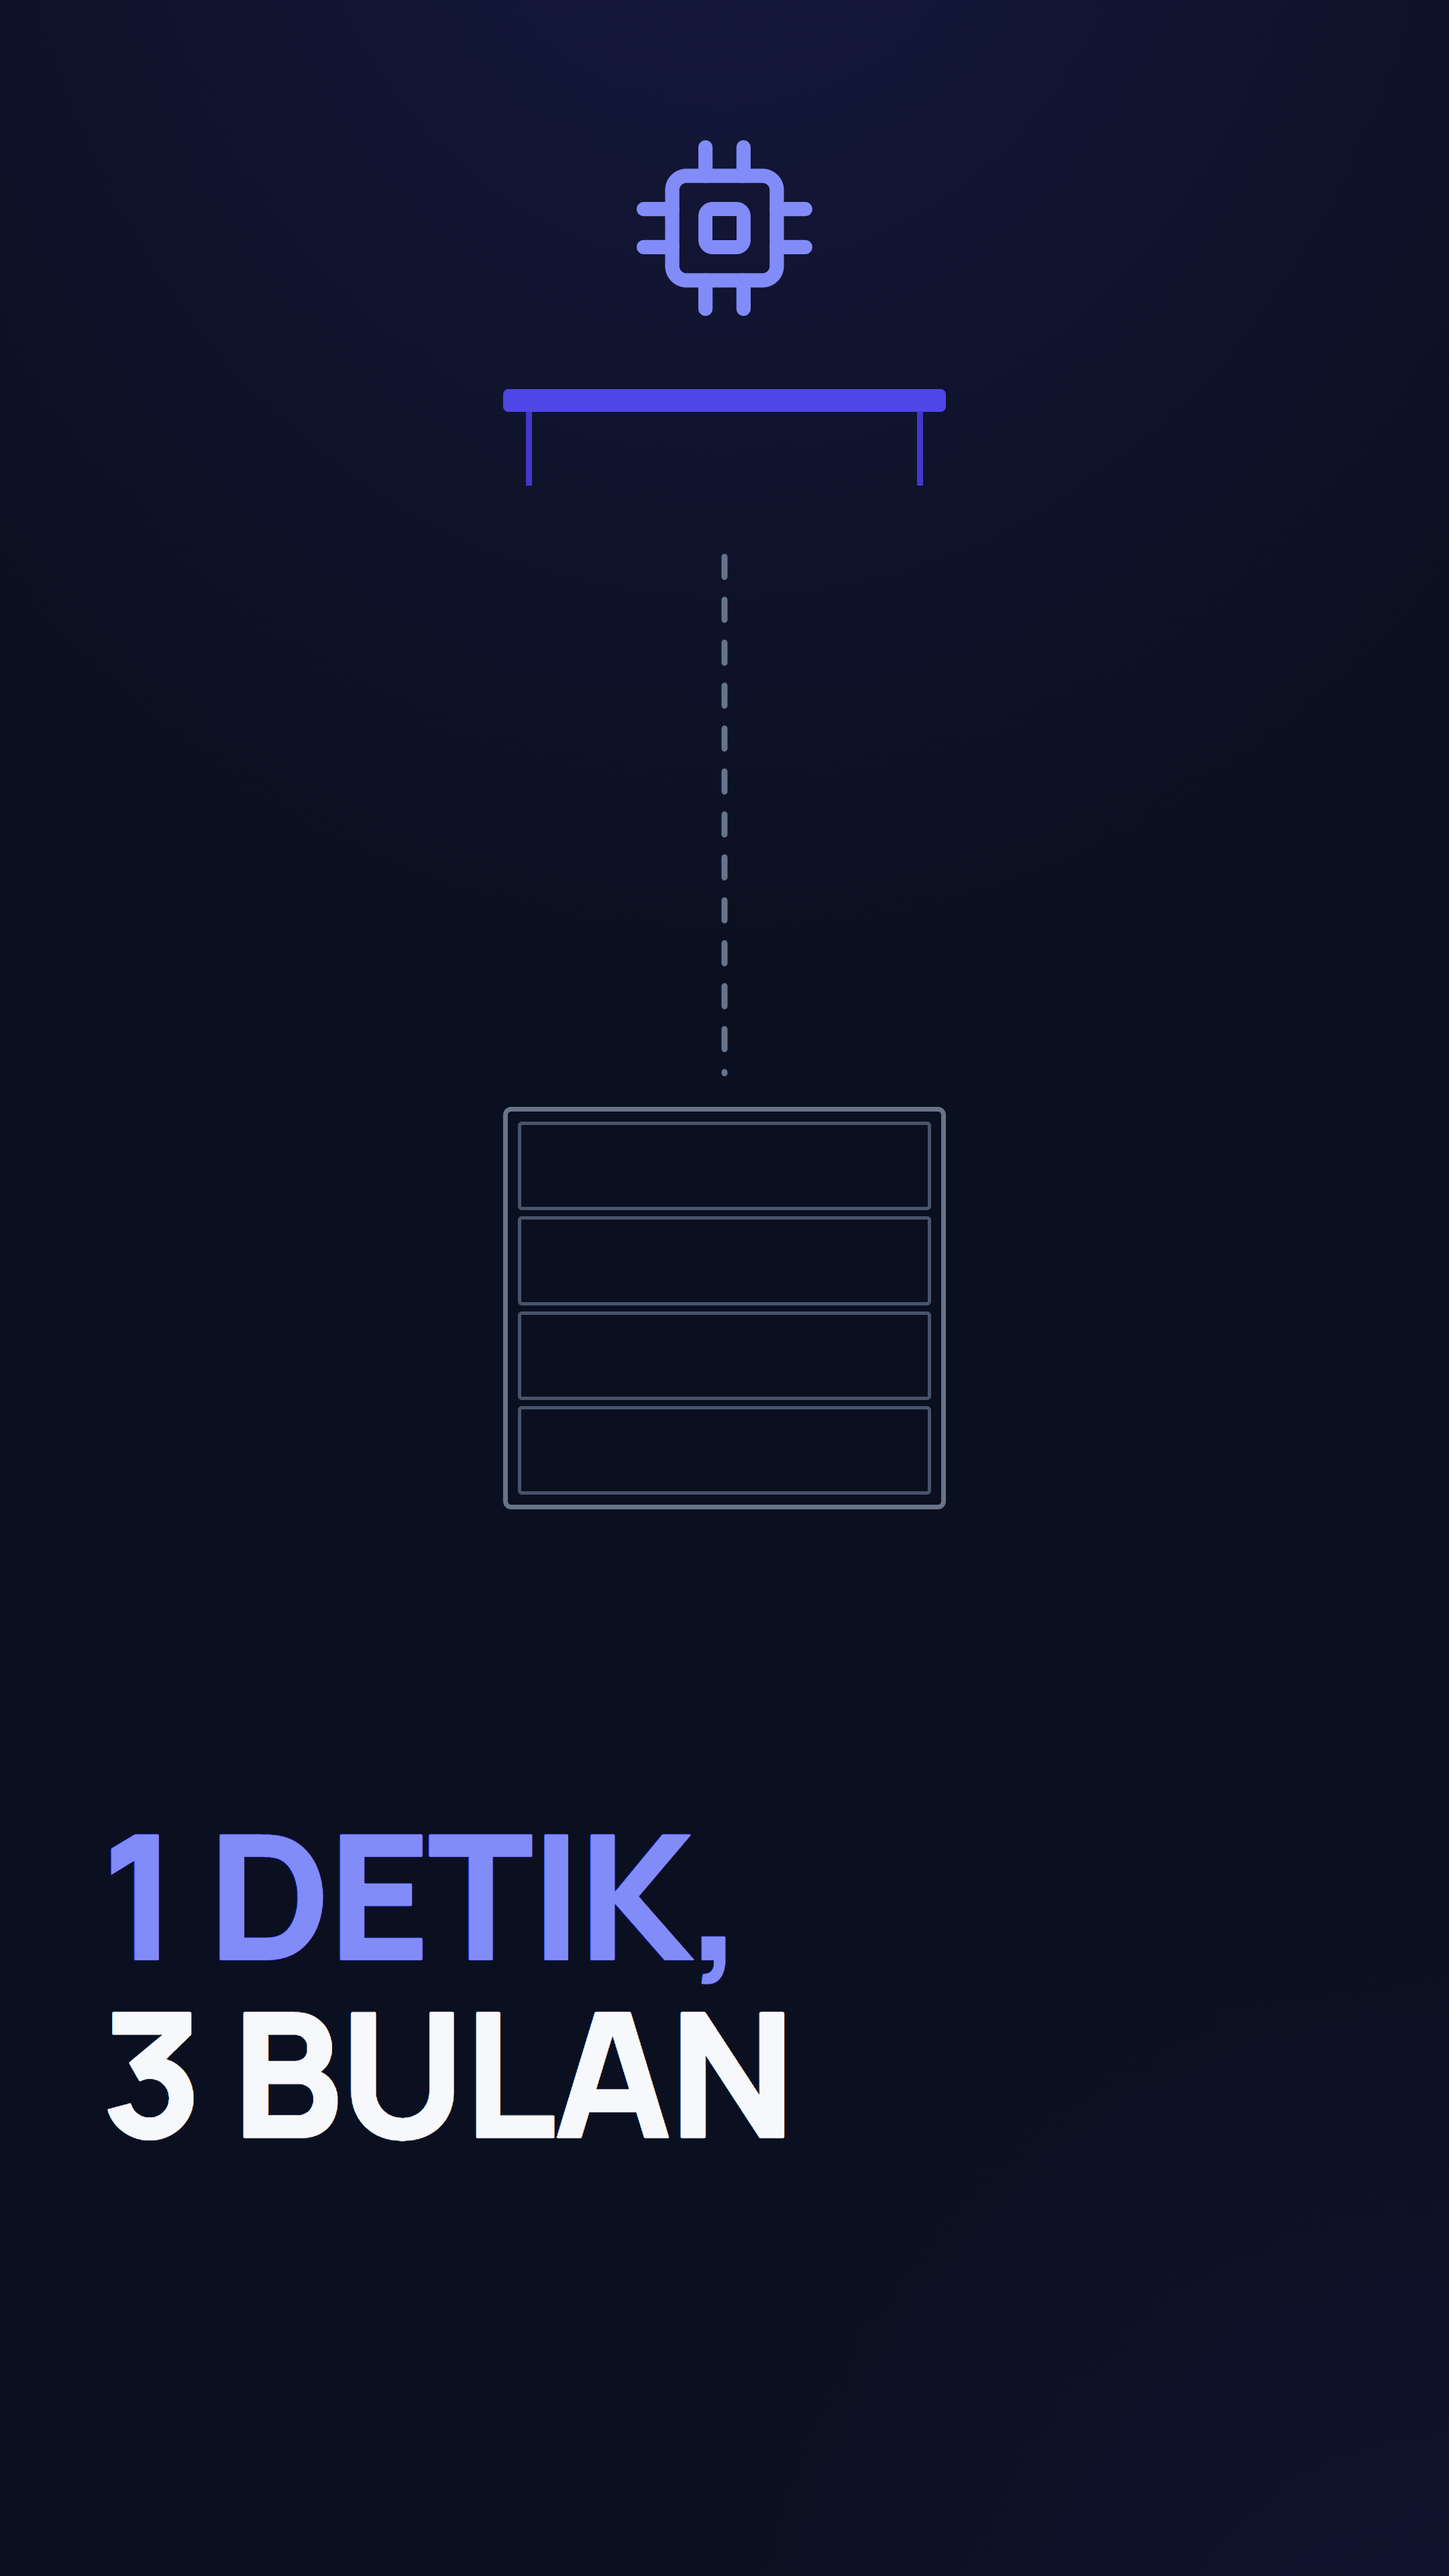
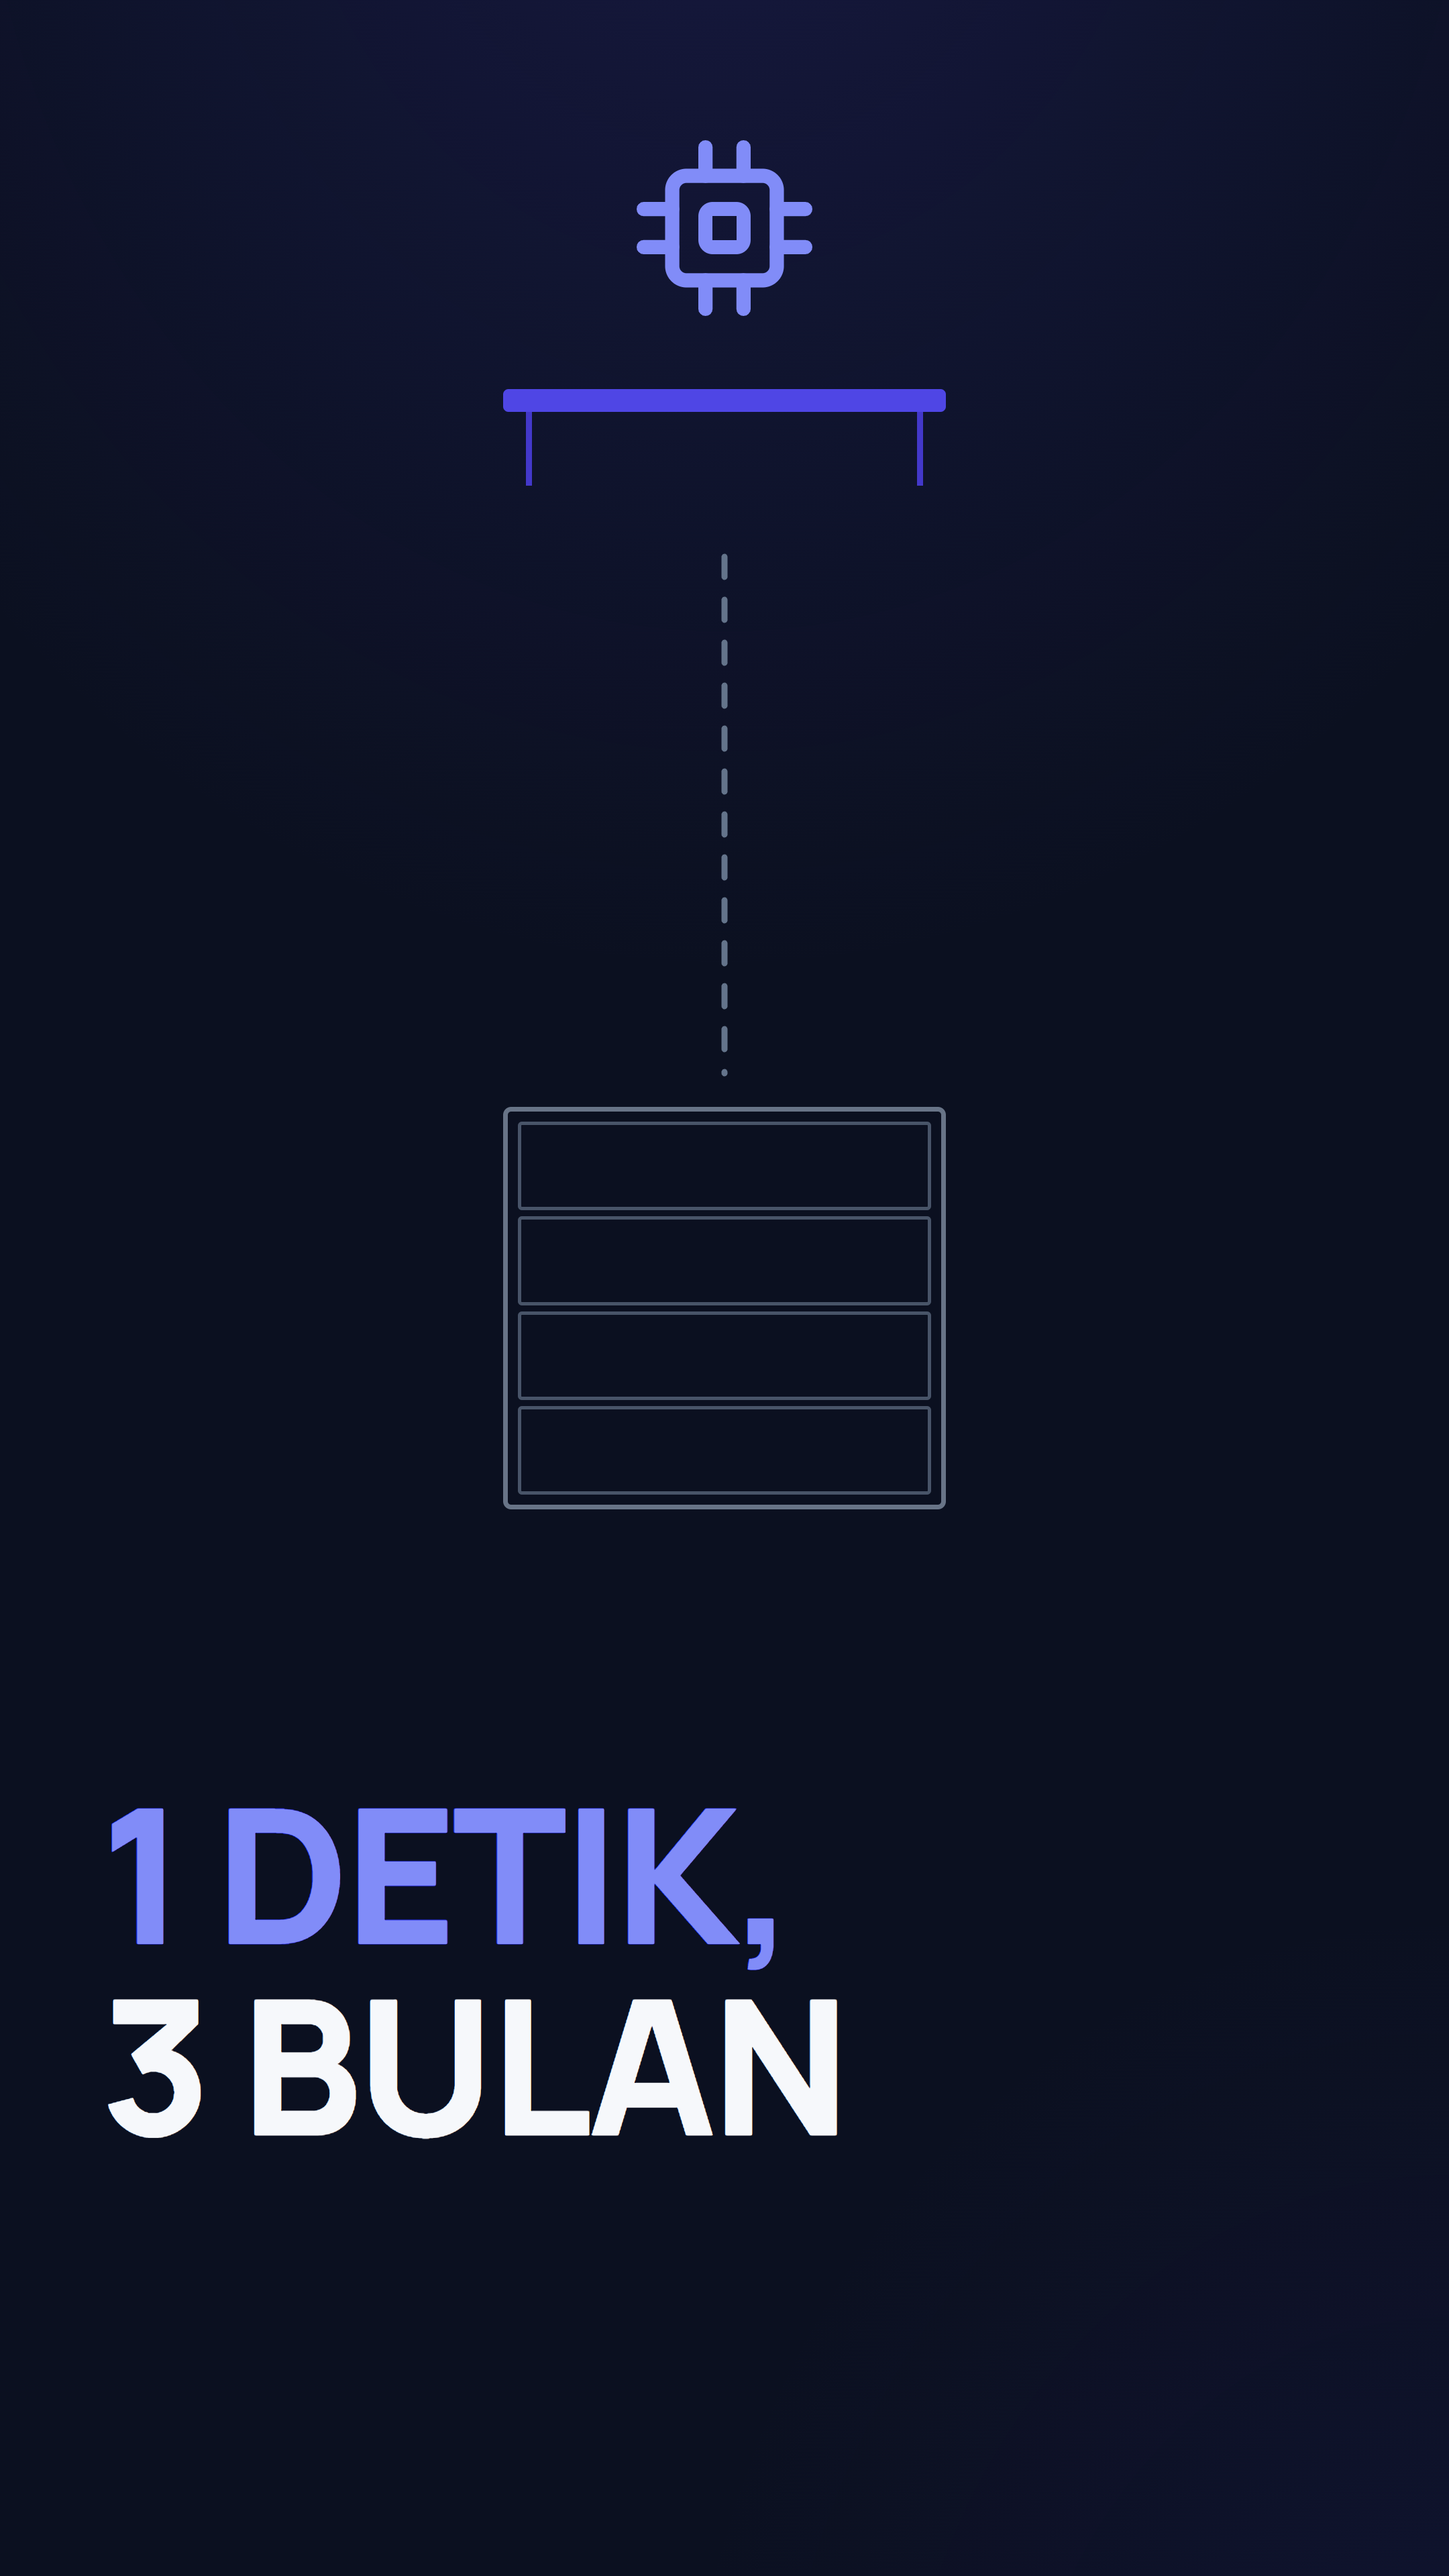
Judul thumbnail lebih besar — 16:9 132→144, 9:16 260→280
Tinggi huruf kapital 95→104px (16:9) dan 187→202px (9:16). Keenam PNG dirender
ulang.

Percobaan pertama menaikkan 16:9 ke 160 dan "BUKAN GUDANG" MENJOROK KELUAR
BINGKAI — penjaga panjang baris meloloskannya karena hampiran 0,6 lebar huruf
terlalu murah hati untuk huruf lebar (U, D, A, N, G).

Lebar sungguhannya, diukur dari PNG: 0,64 x ukuran huruf untuk "BUKAN GUDANG",
0,54 untuk "MEJA LEBAR," yang punya koma dan spasi. Satu konstanta tidak bisa
mewakili keduanya — diketatkan ke 0,64 ia justru menolak kover S2 T01 yang
sebenarnya muat. Jadi penjaganya dibiarkan longgar dan STILL-NYA yang
memutuskan, dengan alasannya ditulis di kodenya supaya percobaan yang sama
tidak diulang sesi berikutnya.

Yang mengunci ukurannya bukan syarat docs/06 (104px sudah jauh di atas 90),
melainkan baris 12 huruf pada kartu 1280 dengan marjin 64. Lebih besar lagi
berarti memendekkan KATANYA — keputusan naskah, bukan tata letak.

Uji 210x118 T01 dulu lolos pada 132px dan belum diulang pada 144px; ditulis apa
adanya di thumbnail.md.

Changed region(s): [[0.062, 0.6875, 0.5894, 0.8438]]

diff --git a/shared/Thumbnail.tsx b/shared/Thumbnail.tsx
@@ -42,8 +42,25 @@ const CAP_RATIO = 0.72;
  *  lebih tinggi resolusinya (2160x3840, docs/06), jadi ukuran huruf yang sama
  *  akan mengecil jadi sepertiganya di layar. Yang dijaga sama adalah porsinya
  *  terhadap lebar kartu — itu yang menentukan keterbacaan, bukan pikselnya. */
+/* UKURAN HURUFNYA DIPATOK DARI STILL, BUKAN DARI HITUNGAN. Dinaikkan
+   15 Agustus 2026 (16:9 132 → 144, 9:16 260 → 280) dan yang menentukan batasnya
+   bukan syarat docs/06 — keduanya sudah jauh di atas 90px — melainkan **baris
+   terpanjang yang sudah ada**: "BUKAN GUDANG"/"BUKAN DAFTAR" 12 huruf di 16:9,
+   "MEJA LEBAR," 11 huruf di 9:16.
+
+   Percobaan pertama menaikkan 16:9 ke 160 dan itu **menjorok keluar bingkai** —
+   penjaga panjang baris di bawah meloloskannya, karena hampiran 0,6 lebar huruf
+   ternyata terlalu murah hati untuk huruf lebar (U, D, A, N, G). Lebar
+   sungguhannya, diukur dari PNG: 0,64 x ukuran huruf untuk "BUKAN GUDANG",
+   0,54 untuk "MEJA LEBAR," yang punya koma dan spasi. Satu angka tidak bisa
+   mewakili keduanya, jadi penjaganya sengaja dibiarkan longgar dan **still-nya
+   yang memutuskan** — sama seperti `npm run check` yang tidak membuktikan
+   gambarnya ada.
+
+   Mau lebih besar lagi? Yang dipendekkan KATANYA. Pada kartu 1280 dengan marjin
+   64, baris 12 huruf sudah memakan hampir seluruh lebarnya di 144. */
 const SETELAN = {
-  "16x9": { fs: 132, padding: 64, pitaFigur: 300, bawah: 50 },
+  "16x9": { fs: 144, padding: 64, pitaFigur: 300, bawah: 50 },
   /* 9:16 — teks tidak menempel di dasar kartu. Di feed dan halaman hasil
      pencarian, judul Short ditumpuk di bawah kovernya; kata yang ditaruh di
      100px terbawah akan tertutup di separuh permukaan tempat ia muncul.
@@ -52,7 +69,7 @@ const SETELAN = {
      punya kelebihan tinggi, dan kelebihan yang tidak dipakai tidak jadi ruang
      napas melainkan zona mati di tengah — figur mengambang di atas, teks
      menempel di bawah, dan yang di antaranya kosong tanpa alasan. */
-  "9x16": { fs: 260, padding: 150, pitaFigur: 2100, bawah: 620 },
+  "9x16": { fs: 280, padding: 150, pitaFigur: 2100, bawah: 620 },
 } as const;
 
 export type RasioThumb = keyof typeof SETELAN;

diff --git a/ideas/dns-server/thumbnail.md b/ideas/dns-server/thumbnail.md
@@ -47,14 +47,14 @@ Dua loket saja, bukan empat: di 210×118 anak tangga ketiga dan keempat menyusut
 jadi noda. Yang perlu terbaca cuma "ada lebih dari satu, dan yang satu menunjuk
 yang lain".
 
-**Sudah jadi** — `render/thumb.png`, 1280×720, 247 KB. Dibangun di fase 4 dari
+**Sudah jadi** — `render/thumb.png`, 1280×720, 248 KB. Dibangun di fase 4 dari
 [`thumb.tsx`](thumb.tsx).
 
 ```powershell
 npx remotion still T14-thumb ideas/dns-server/render/thumb.png
 ```
 
-Tinggi huruf kapital 95px (syarat ≥ 90, dihitung `TINGGI_KAPITAL` di
+Tinggi huruf kapital 104px (syarat ≥ 90, dihitung `TINGGI_KAPITAL` di
 `shared/Thumbnail.tsx`). **Uji 210×118 belum dikerjakan** — itu pemeriksaan
 mata, bukan angka: kecilkan PNG-nya ke ukuran itu dan lihat sendiri. Kalau tidak
 terbaca, ulangi; jangan diloloskan.

diff --git a/ideas/apa-itu-ram/render/publish.md b/ideas/apa-itu-ram/render/publish.md
@@ -126,8 +126,8 @@ belajar komputer, teknologi indonesia, belajar coding, programming indonesia
 **fase 1** dan hidup di [`../thumbnail.md`](../thumbnail.md); jangan disalin ke
 berkas ini. Yang perlu ada di sebelah halaman unggah cuma berkasnya:
 
-`MEJA, BUKAN GUDANG` · `thumb.png` di sebelah berkas ini, 1280×720, 230 KB ·
-uji 210×118 **lolos**.
+`MEJA, BUKAN GUDANG` · `thumb.png` di sebelah berkas ini, 1280×720, 246 KB ·
+uji 210×118 **lolos** pada ukuran huruf lama (lihat `../thumbnail.md`).
 
 ```powershell
 npx remotion still T01-thumb ideas/apa-itu-ram/render/thumb.png

diff --git a/ideas/dns-server/render/publish.md b/ideas/dns-server/render/publish.md
@@ -173,7 +173,7 @@ belajar coding, programming indonesia
 **fase 1** dan hidup di [`../thumbnail.md`](../thumbnail.md); jangan disalin ke
 berkas ini. Yang perlu ada di sebelah halaman unggah cuma berkasnya:
 
-`LOKET, BUKAN DAFTAR` · `thumb.png` di sebelah berkas ini, 1280×720, 247 KB.
+`LOKET, BUKAN DAFTAR` · `thumb.png` di sebelah berkas ini, 1280×720, 248 KB.
 
 ```powershell
 npx remotion still T14-thumb ideas/dns-server/render/thumb.png
